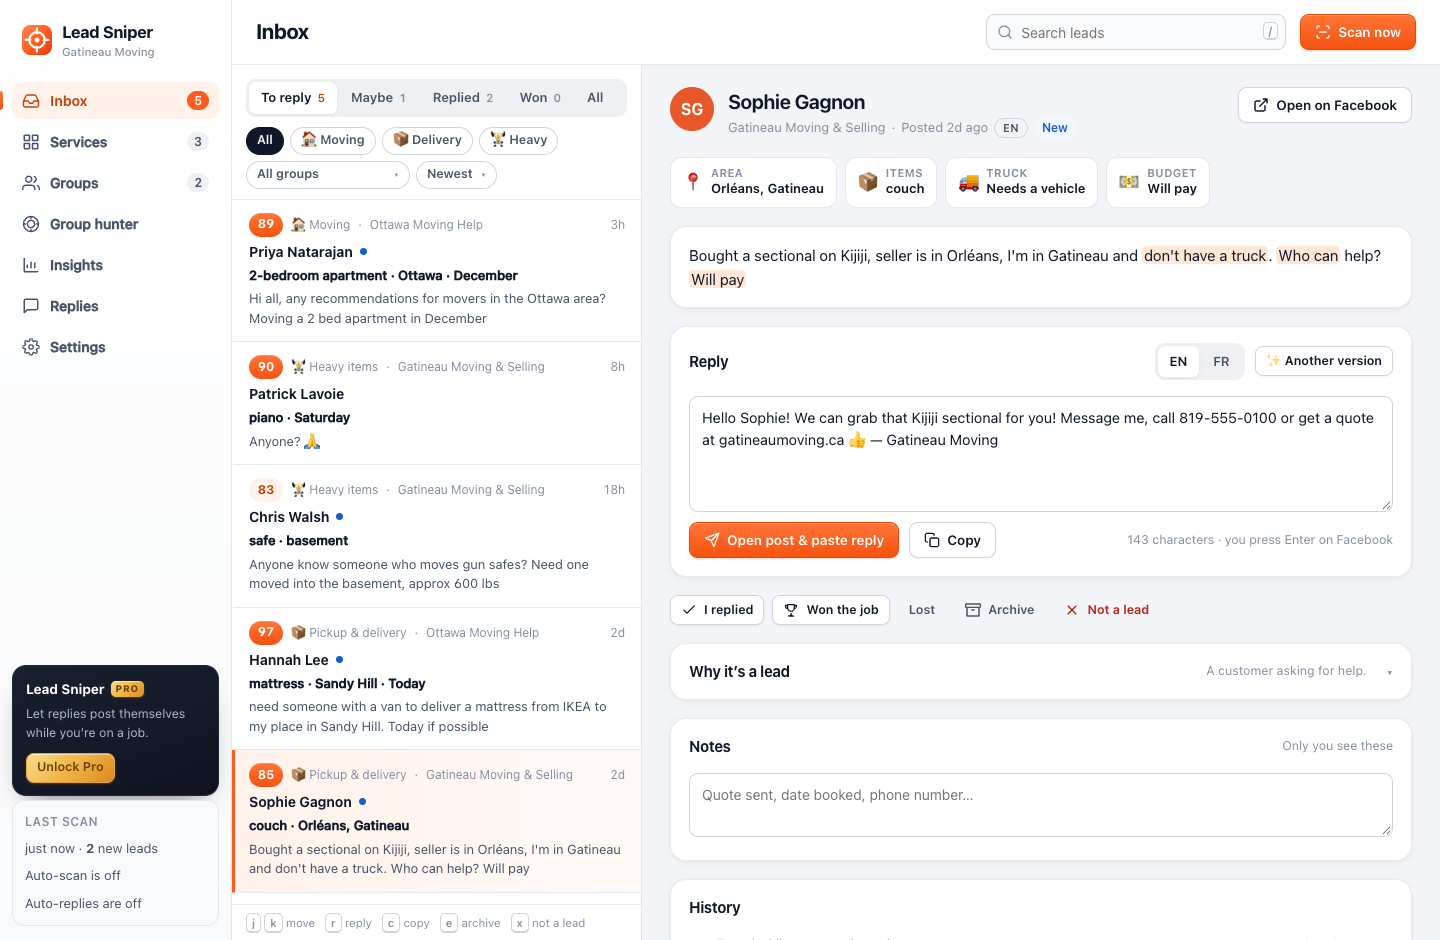
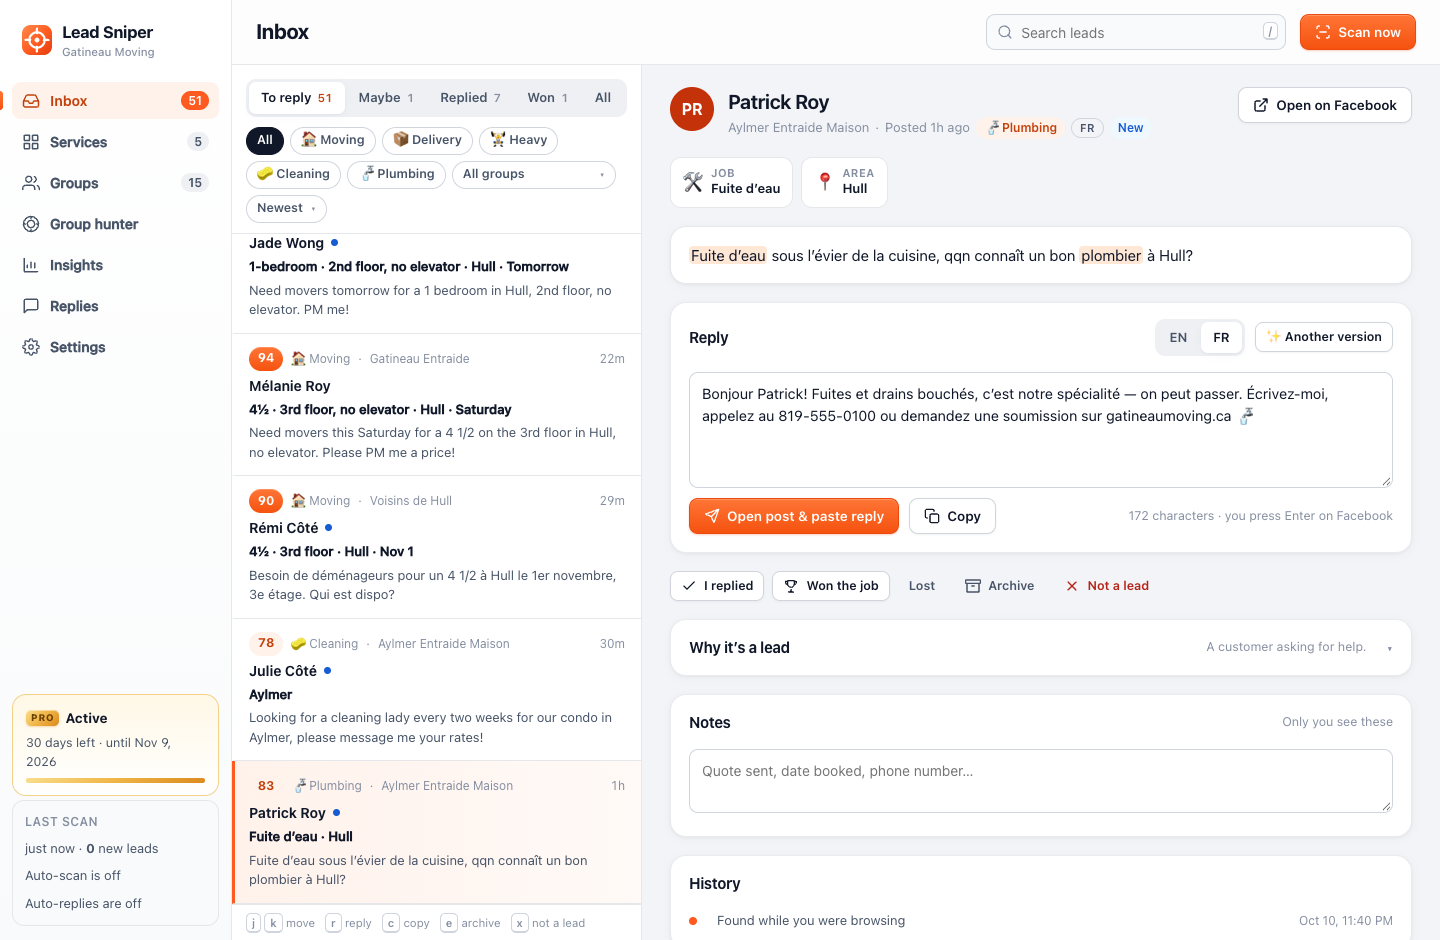
Lead Sniper 3.2: every screen speaks all 30 services

diff --git a/index.html b/index.html
@@ -178,7 +178,7 @@ section.alt { background: var(--bg-2); }
     </div>
   </div>
   <div class="stage">
-    <div class="frame"><div class="bar"><i></i><i></i><i></i></div><img src="assets/inbox.png" width="1440" height="940" alt="The Lead Sniper inbox: leads with score, job details and a ready reply"></div>
+    <div class="frame"><div class="bar"><i></i><i></i><i></i></div><img src="assets/inbox.png" width="1440" height="940" alt="The Lead Sniper inbox: moving, cleaning and plumbing leads with score, job details and a ready reply"></div>
     <div class="toast"><span class="badge ok">✓ 83</span><div>Auto-replied to Patrick<small>🚰 Plumbing · leak under the sink · Hull</small></div></div>
     <div class="post">
       <div class="lsbar"><span class="badge">🎯 90</span><b>Moving lead</b><span class="s">4½ · no elevator · Hull → Aylmer · Jul 1</span></div>
@@ -207,13 +207,15 @@ section.alt { background: var(--bg-2); }
       <div class="fl"><span>Fuite sous l’évier, qqn connaît un bon plombier à Hull?</span><span class="tag lead">🚰 Plumbing 83</span></div>
       <div class="fl"><span>Need a cleaner? Book now, free quotes!</span><span class="tag">Competitor ad</span></div>
       <div class="fl"><span>Hiring painters for our company, $22/h</span><span class="tag">Job post</span></div>
-      <p class="note">Shows the job at a glance: size, floor, route, date, items.</p>
+      <p class="note">Shows the job at a glance: a move’s size, floor and route, or any other job in their own words.</p>
     </div>
     <div class="step">
       <div class="n"><i>2</i>Writes like you</div>
       <div class="orig"><b>Étienne:</b> Quelqu’un aurait un camion pour aller chercher un divan à Orléans demain?</div>
       <div class="out"><span class="lang">FR</span>Allo Étienne! On peut aller chercher votre divan de Marketplace pour vous demain! Soumission et infos sur yourmovingco.ca — ou textez le 819-555-0142 🚚 — Your Moving Co.</div>
-      <p class="note">Their name, item and date, plus your number and website. Never the same twice.</p>
+      <div class="orig"><b>Julie:</b> Looking for a cleaning lady every two weeks for our condo in Aylmer!</div>
+      <div class="out"><span class="lang">EN</span>Hello Julie! We’d be happy to take care of the cleaning! We work in Aylmer all the time. Send me a message or call/text 819-555-0142 for a quick quote ✨ — Your Co.</div>
+      <p class="note">Their name, the job and the date, in the voice of each service, plus your number and website. Never the same twice.</p>
     </div>
     <div class="step">
       <div class="n"><i>3</i>Sends it <span class="pro">PRO</span></div>

diff --git a/RELEASE.md b/RELEASE.md
@@ -1,9 +1,16 @@
-**Lead Sniper 3.1 finds every request for your services in your Facebook groups — now 30 local services, from moving and cleaning to roofing, tutoring and childcare — in English and Québec French, and has a personal reply ready in one click.** With Pro, it replies for you.
+**Lead Sniper 3.2 finds every request for your services in your Facebook groups — 30 local services, from moving and cleaning to roofing, tutoring and childcare — in English and Québec French, and has a personal reply ready in one click.** With Pro, it replies for you.
 
 ### Install (2 minutes)
 1. Download **lead-sniper.zip** below and double-click it to unzip. Keep the folder somewhere permanent, like Documents.
 2. Open `brave://extensions` (or `chrome://extensions`), turn on **Developer mode**, click **Load unpacked** and pick the folder. Updating? Replace the old folder's files and click the reload arrow on the extension.
 3. On the welcome screen, enter your business name and your group links, then scroll Facebook.
+
+### New in 3.2: every screen speaks all 30 services
+- 📥 **Inbox:** each lead shows its service, and any job other than a move shows what's needed in the customer's own words (*"Laveuse ne vidange plus"*, *"Hot tub stopped heating"*), on Facebook and in your notifications too
+- ✍ **Replies page:** preview the smart reply for each of your services in English and French; templates are listed by service, and **New template for…** starts one in that service's own voice. New `{job}` and `{area}` fill-ins
+- 🧭 **Group Hunter** searches where your services get asked for: moving groups for movers, recommendation and home-services groups for trades, parents' groups for babysitters and tutors
+- 📊 **Insights:** leads and jobs won for each service
+- 🧹 Replies for trades no longer borrow a mover's lines ("stairs don't scare us")
 
 ### New in 3.1
 - 🧰 **10 more services (30 in all):** 🏚 Roofing · 🔥 Chimney sweeping · 🔑 Locksmith · 🏊 Pools & hot tubs · 💻 Computer & phone repair · 🧸 Childcare · 📚 Tutoring · 💇 Hair & beauty · 📸 Photography · 🧵 Sewing & alterations
